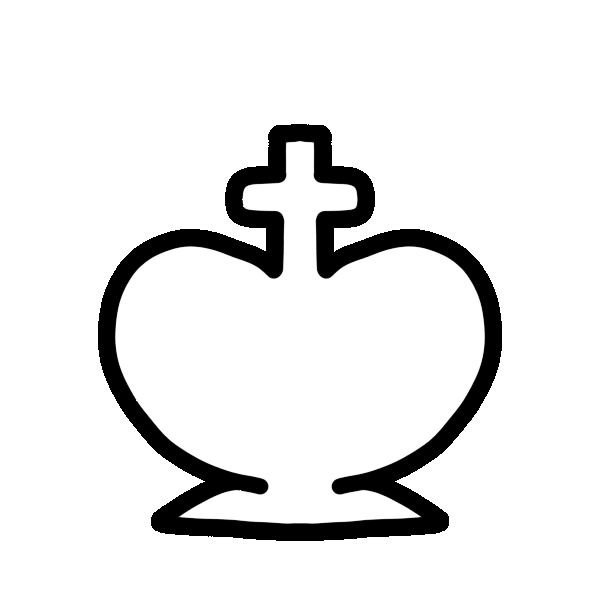
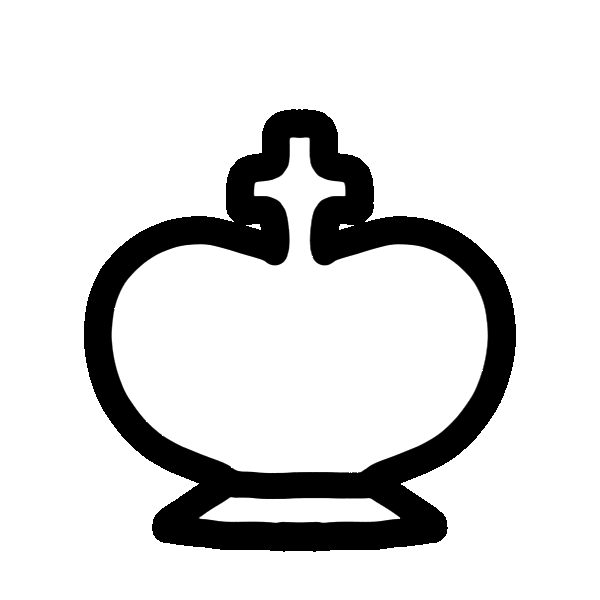
add v2 piece designs

Changed region(s): [[0.12, 0.18, 0.87, 0.93]]

diff --git a/src/components/Piece.tsx b/src/components/Piece.tsx
@@ -19,6 +19,6 @@ export default function Piece({id, type, numMoves, isFrozen}: PieceData) {
     });
 
     return (
-        <img id={id} src={imgUrl} className={`${isFrozen ? "" : "cursor-grab"} w-full h-full`} draggable="false" ref={ref}/>
+        <img id={id} src={imgUrl} className={`${(isFrozen || !canMove) ? "" : "cursor-grab"} w-full h-full`} draggable="false" ref={ref}/>
     )
 }
